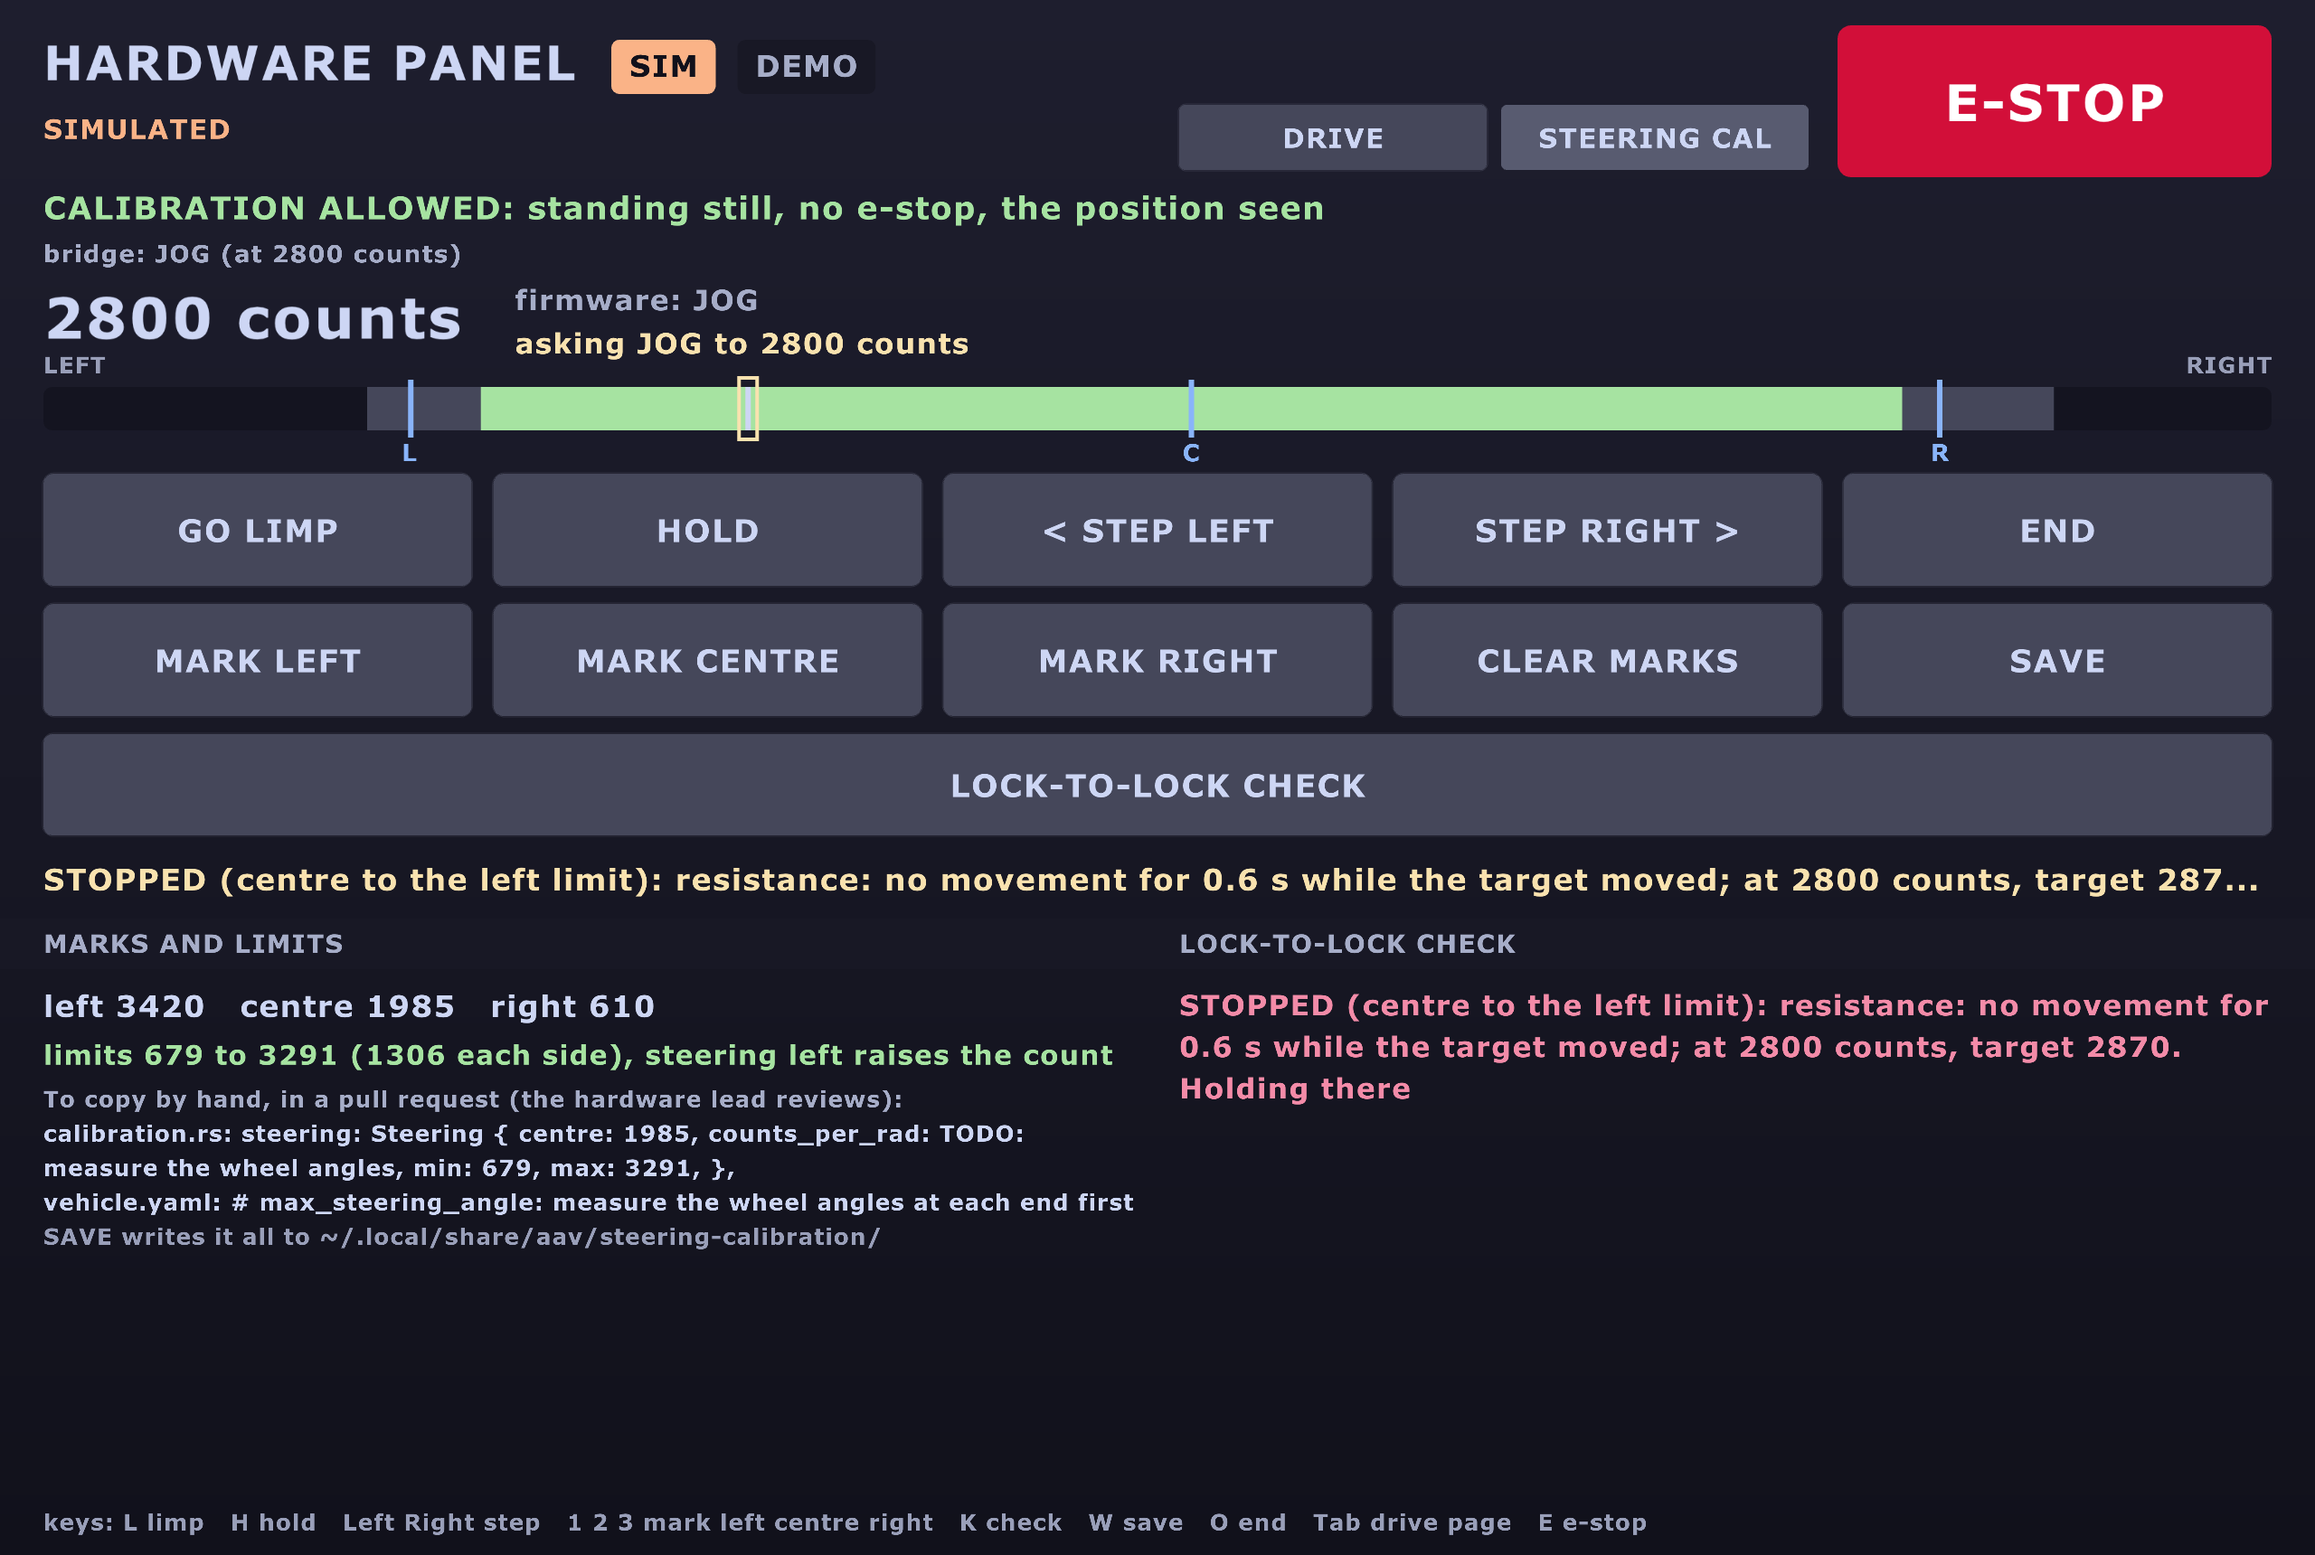
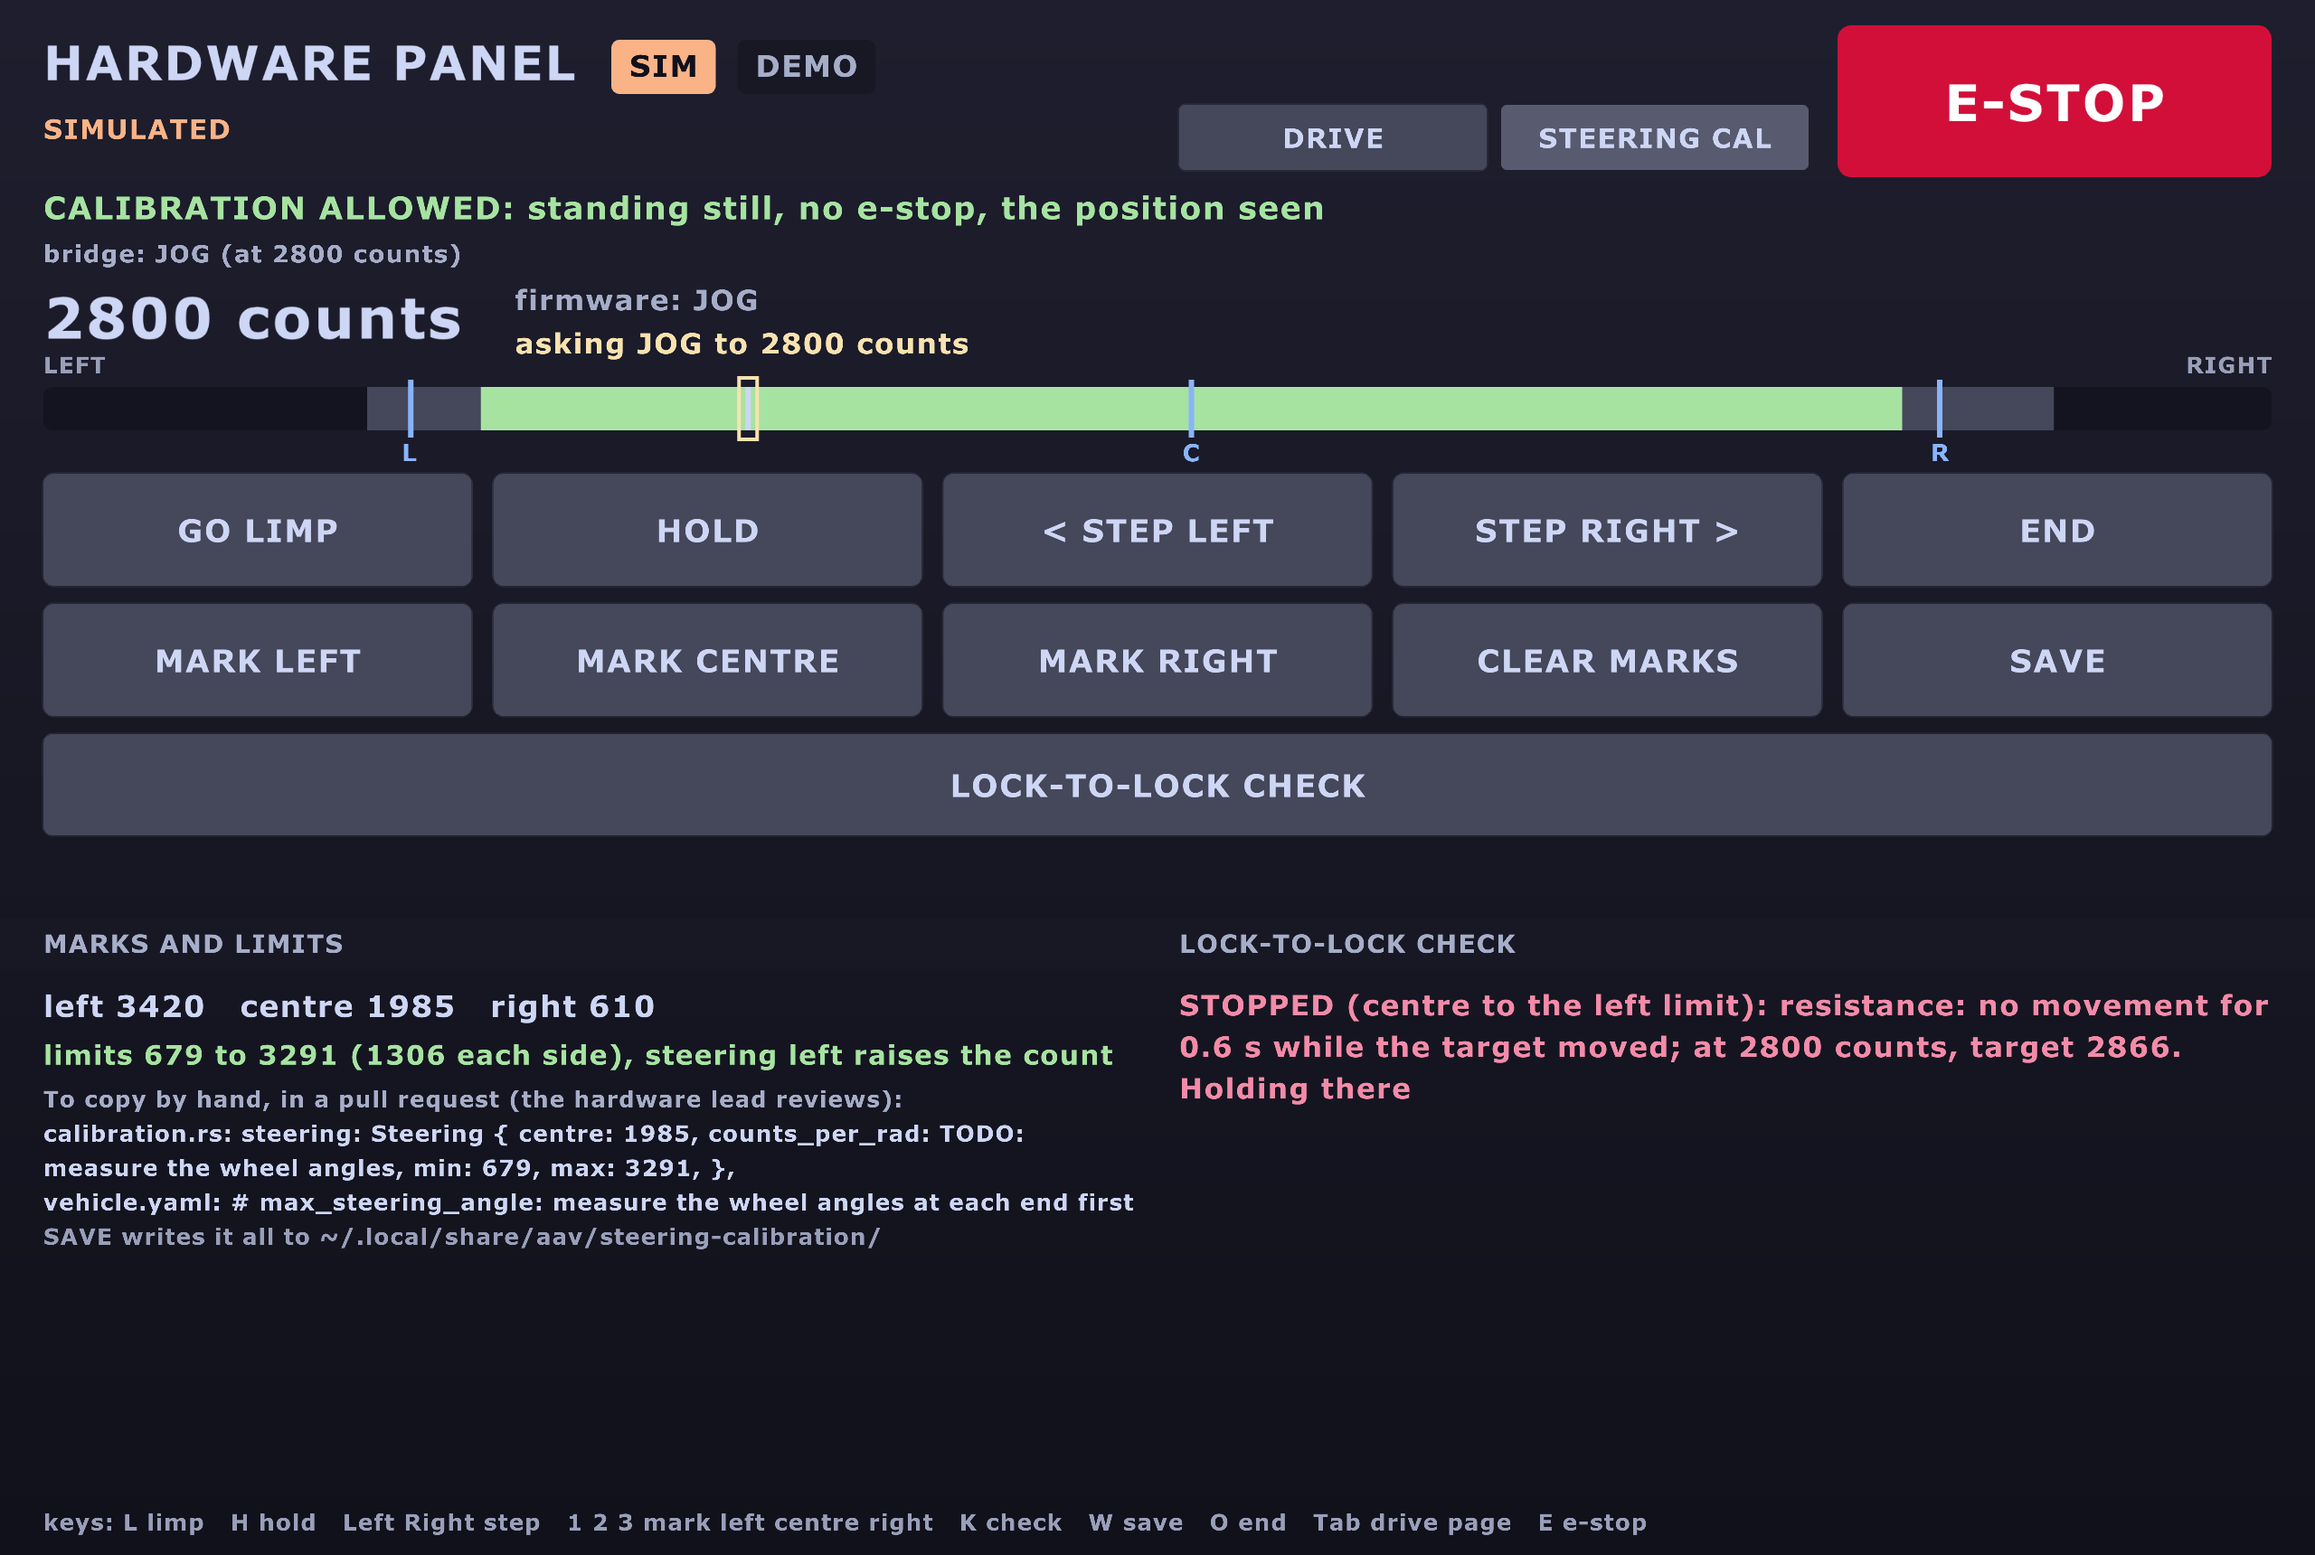
Calibration page: say the check's result once, in its own column

Changed region(s): [[0.0312, 0.5547, 0.9688, 0.5855]]

diff --git a/ros/hud/aav_hud/crates/panel-app/src/ui/calibration.rs b/ros/hud/aav_hud/crates/panel-app/src/ui/calibration.rs
@@ -155,7 +155,9 @@ impl Ui {
             self.button(d, b, r, f, enabled);
         }
 
-        if let Some(note) = cal.note() {
+        // The check's result has its own column below: don't say it twice.
+        let checked = cal.checked().map(|o| o.to_string());
+        if let Some(note) = cal.note().filter(|n| checked.as_deref() != Some(*n)) {
             let ink = if note.starts_with("PASSED") || note.starts_with("marked") {
                 t.good
             } else if note.starts_with("STOPPED")
